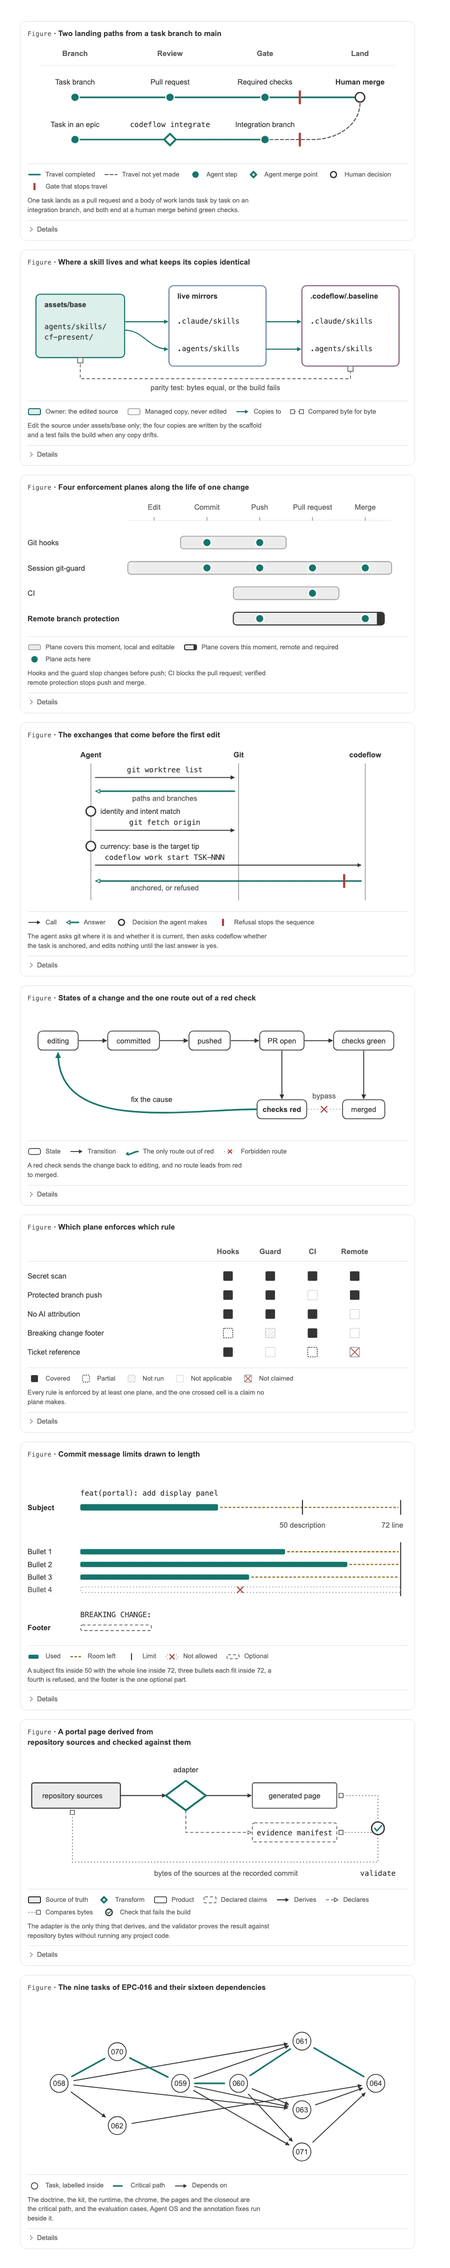
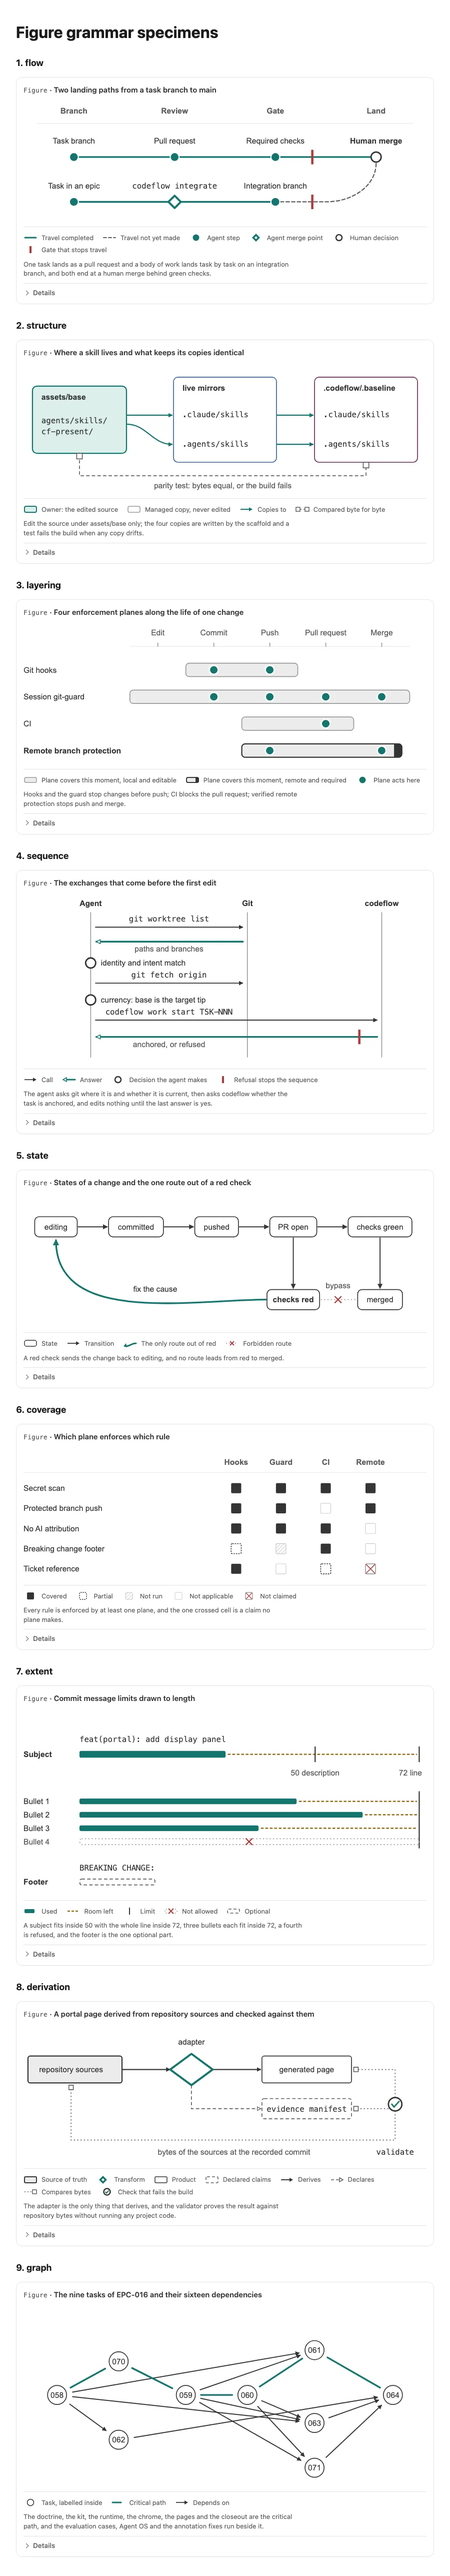
docs(present): re-render and register the fix head
- example and specimen renders made at c5de5a974, with the method
- install journey rerun at the fix head
- qualification cohort registered with both rebuilt pins

diff --git a/docs/verification/evidence/tsk-445/qualification/preregistration.md b/docs/verification/evidence/tsk-445/qualification/preregistration.md
@@ -149,3 +149,34 @@ evidence.
   this worktree's `target/`. It must be found and verified, or rebuilt and
   registered under its new digest, before the comparison arm runs.
 - State: no trial in this cohort has launched.
+
+## Cohort registered 2026-11-04, at the review fix head
+
+This registration supersedes every candidate, comparison executable, suite
+and harness selection above for new trials. The review fixes changed the
+skill text and `requirements_version`, so the `9e0ba03e2` pin cannot qualify
+this head. No trial of any earlier cohort ran. Requested subject, seat,
+order, prompts, pass rule and evidence stay as registered on 2026-11-03.
+
+- Candidate source: `c5de5a9743e1bc12cce1c0ea7f60a044106421a3`, which carries
+  integration tip `9c5f665cf014b3e1aa3213c1fd6175db952d2b1c` and the review
+  fixes.
+- Candidate executable: `target/qualification-pins/c5de5a974/codeflow`, copied
+  from the clean `target/debug/codeflow` built at that commit. Version:
+  `codeflow 4.0.0`, source as above, `dirty=false`, hook inputs
[2 lines of base64/hex data omitted]
+- Comparison executable: the binary with SHA-256 `70426e4e...` registered
+  earlier was not found on this host after the 2026-11-04 restart. It was
+  rebuilt from source `0f08dd7f805f7efb8b04e04f180687e08236f481` in its own
+  worktree and target. Version: `codeflow 3.2.0`, source as above,
+  `dirty=false`, hook inputs
[1 lines of base64/hex data omitted]
+  Pinned at `target/qualification-pins/0f08dd7f8/codeflow`, SHA-256
[1 lines of base64/hex data omitted]
+- Suite: `sha256:793e2a8ab5fa82811a9eb27f1523376012213c637d7ed88921777e8ed883e7cd`,
+  from `suite_digest()` in `eval_kit.py` at the candidate.
+- Harness: `claude --version` reports `2.1.318`.
+- Commits after this registration change evidence only. A change to the
+  skills or the suite needs a new registration before any trial.
+- State: no trial in this cohort has launched.

diff --git a/docs/verification/evidence/tsk-445/renders.md b/docs/verification/evidence/tsk-445/renders.md
@@ -1,0 +1,15 @@
+# Renders of the example and the specimens
+
+The four `*-after-*.webp` images were made on 2026-11-04 from the sources at
+`c5de5a9743e1bc12cce1c0ea7f60a044106421a3`. They replace the 2026-10-26
+captures, which showed an earlier anchor line in the example and filled copy
+regions in the structure specimen. The `*-before-*` and
+`worked-example-ledger-*` images are unchanged.
+
+| Images | Made from | Width |
+|---|---|---|
+| `example-after-light.webp`, `example-after-dark.webp` | `present-document.example.json` opened with the candidate binary (`present check`: 0 faults, 0 warnings), then `codeflow present export --mode light` and `--mode dark` | 1280 px, full page |
+| `specimens-after-light.webp`, `specimens-after-dark.webp` | the nine `<figure>` blocks of `figure-grammar-specimens.md` with their section headings, styled by the portal starter's `utility-tokens.css`, `figure-roles.css` and `figure.css`, `data-theme` light and dark | 900 px, full page |
+
+Each page was captured with Playwright 1.62.1 (Chromium) and encoded with
+`cwebp -q 82`. Every figure in all four images was inspected and draws.

diff --git a/docs/verification/evidence/tsk-445/ac8-journey.md b/docs/verification/evidence/tsk-445/ac8-journey.md
@@ -1,13 +1,13 @@
 # Install and upgrade journey for the anchored presentation skill
 
-Both journeys passed on 2026-11-03: a fresh standard install and a project
+Both journeys passed on 2026-11-04, at the review fix head: a fresh standard install and a project
 updated from 3.1.1 carry the new skill text and example, every relative
 Markdown link in the skill resolves, and the example passes `present check`
 with no faults or warnings.
 
 | Input | Value |
 |---|---|
[3 lines of base64/hex data omitted]
 
 | Check | Fresh install | Update from 3.1.1 |
